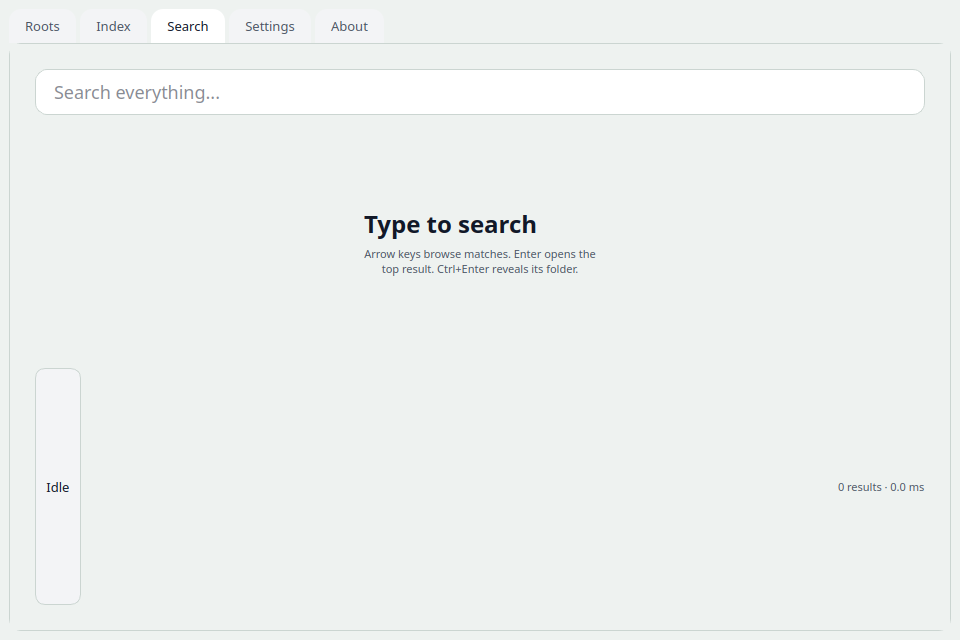
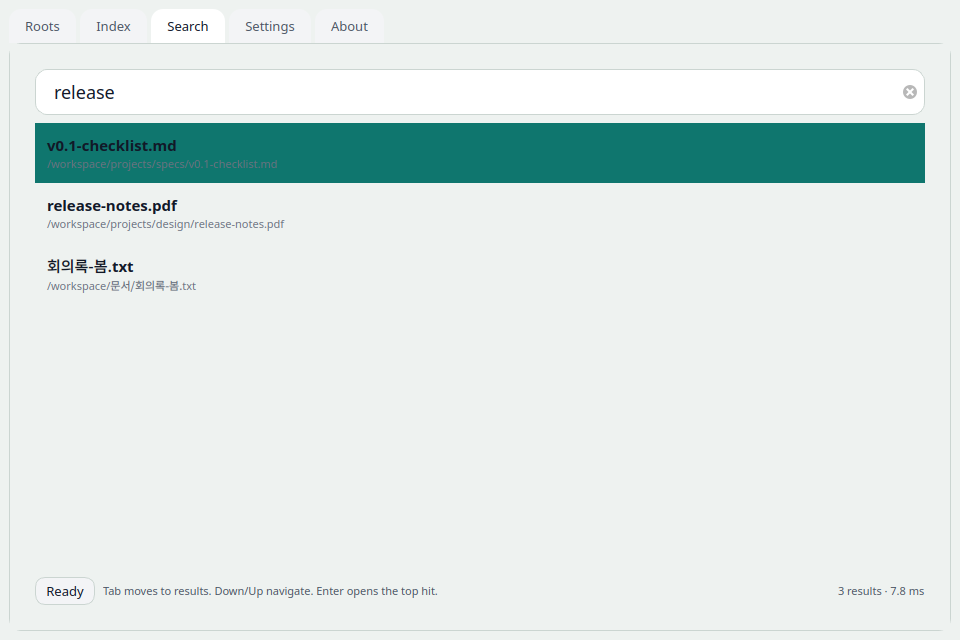
feat(docs): render richer screenshot states

diff --git a/eodinga/gui/docs.py b/eodinga/gui/docs.py
@@ -6,7 +6,7 @@ from typing import cast
 from PySide6.QtCore import QEventLoop, QTimer
 from PySide6.QtWidgets import QApplication
 
-from eodinga.common import QueryResult, SearchHit
+from eodinga.common import IndexingStatus, QueryResult, SearchHit
 from eodinga.gui.app import EodingaWindow
 from eodinga.gui.launcher import LauncherWindow
 from eodinga.gui.theme import apply_theme
@@ -47,7 +47,7 @@ def _demo_search(query: str, limit: int) -> QueryResult:
     return QueryResult(items=items[:limit], total=len(items), elapsed_ms=7.8)
 
 
-def render_doc_screenshots(output_dir: Path) -> tuple[Path, Path]:
+def render_doc_screenshots(output_dir: Path) -> dict[str, Path]:
     output_dir.mkdir(parents=True, exist_ok=True)
     app = cast(QApplication, QApplication.instance() or QApplication([]))
     apply_theme(app, "light")
@@ -56,9 +56,18 @@ def render_doc_screenshots(output_dir: Path) -> tuple[Path, Path]:
     launcher = LauncherWindow(search_fn=_demo_search)
 
     try:
+        indexing_status = IndexingStatus(
+            phase="indexing",
+            processed_files=1248,
+            total_files=3200,
+            current_root=Path("/workspace/projects"),
+        )
+        window.set_indexing_status(indexing_status)
         window.tab_widget.setCurrentWidget(window.search_tab)
         window.show()
         launcher.show()
+        window.search_tab.launcher_panel.query_field.setText("release")
+        window.search_tab.launcher_panel._run_query()
         launcher.query_field.setText("release")
         launcher._run_query()
         _wait(80)
@@ -67,12 +76,24 @@ def render_doc_screenshots(output_dir: Path) -> tuple[Path, Path]:
 
         app_path = output_dir / "app-window.png"
         launcher_path = output_dir / "launcher-window.png"
+        index_path = output_dir / "index-progress.png"
 
         if not window.grab().save(str(app_path)):
             raise RuntimeError(f"failed to save screenshot: {app_path}")
         if not launcher.grab().save(str(launcher_path)):
             raise RuntimeError(f"failed to save screenshot: {launcher_path}")
-        return app_path, launcher_path
+
+        window.tab_widget.setCurrentWidget(window.index_tab)
+        _wait(40)
+        app.processEvents()
+
+        if not window.grab().save(str(index_path)):
+            raise RuntimeError(f"failed to save screenshot: {index_path}")
+        return {
+            "app-window": app_path,
+            "launcher-window": launcher_path,
+            "index-progress": index_path,
+        }
     finally:
         launcher.close()
         window.close()
